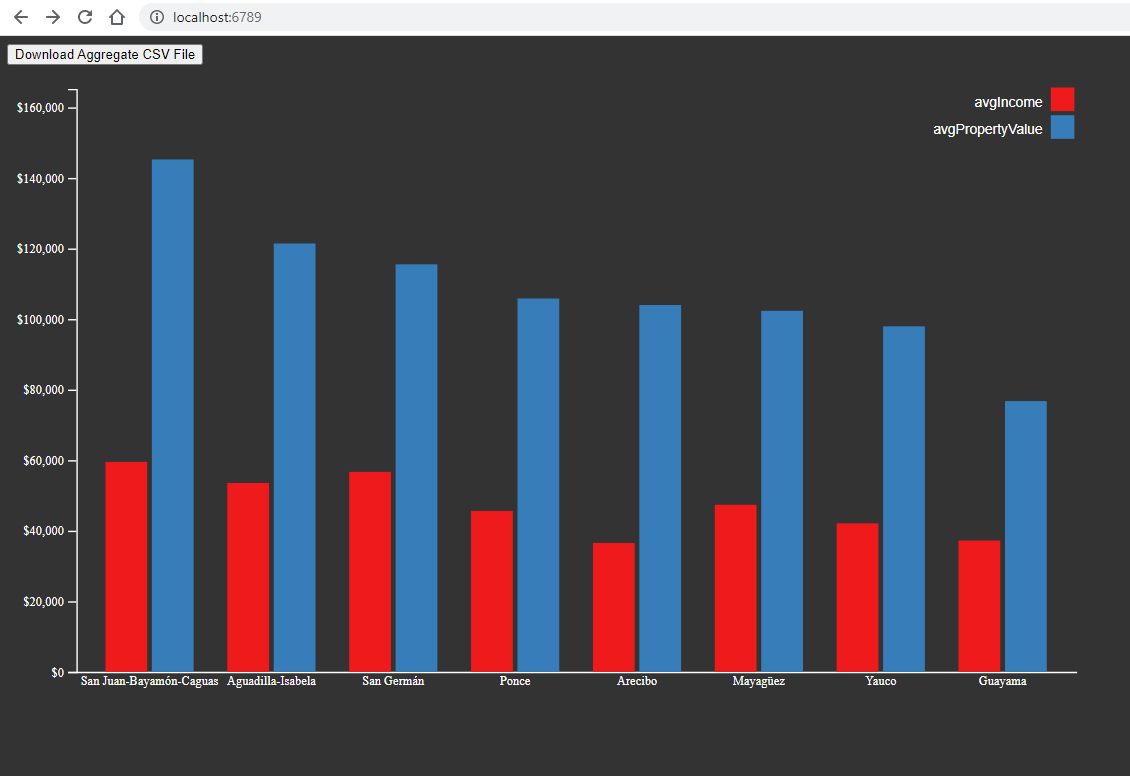
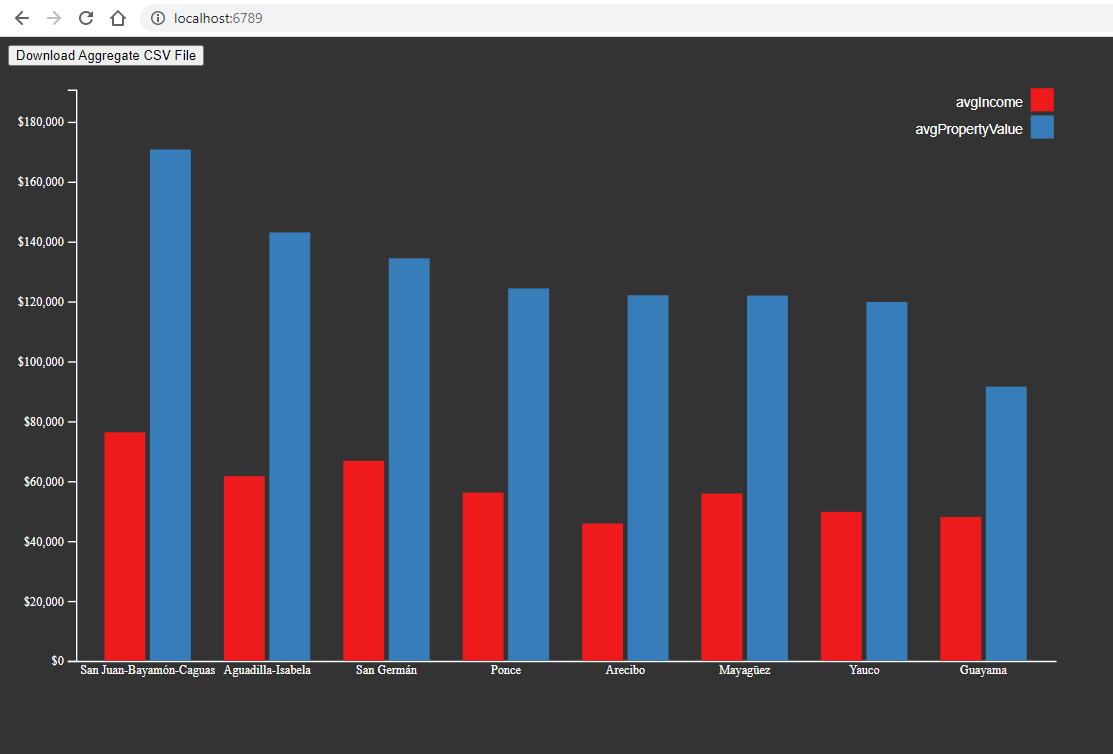
Fix average weighting per feedback from Tim

diff --git a/app.js b/app.js
@@ -141,8 +141,22 @@ function parseCfpbData () {
 
 // perform all the necessary calcs to produce the desired output for the assignment
 function crunchData () {
+  // list of columns/fields we're aggregating
+  const aggregateFieldMap = {
+    'avgLoanAmount': 'loan_amount',
+    'avgLtvRatio': 'loan_to_value_ratio',
+    'avgInterestRate': 'interest_rate',
+    'avgLoanCosts': 'total_loan_costs',
+    'avgLoanTermMonths': 'loan_term',
+    'avgPropertyValue': 'property_value',
+    'avgIncome': 'income'
+  }
+
+  let removeFromAvg = {}
+
   // reducer to create/massage the data to the expected output
   aggregateData = usefulJson.reduce((ret, row) => {
+    // if MSA ID key does not exist, create it
     if (!ret[row.msa_id]) {
       ret[row.msa_id] = {
         tracts: {},
@@ -156,6 +170,10 @@ function crunchData () {
         avgIncome: 0,
         loanCount: 0
       }
+
+      // populate the remove from average map, used to store counts to remove non-numbers from average weighting
+      removeFromAvg[row.msa_id] = {}
+      for (key in aggregateFieldMap) removeFromAvg[row.msa_id][key] = 0
     }
 
     // keep track of the number of loans per MSA ID
@@ -165,14 +183,18 @@ function crunchData () {
     ret[row.msa_id].raceCounts[row.derived_race] = ret[row.msa_id].raceCounts[row.derived_race] ? ret[row.msa_id].raceCounts[row.derived_race] + 1 : 1
 
     // keep a running sum for each field, which we will use to calc the average later
-    // convert any non-number to 0
-    ret[row.msa_id].avgLoanAmount += parseFloat(row.loan_amount) || 0
-    ret[row.msa_id].avgLtvRatio += parseFloat(row.loan_to_value_ratio) || 0
-    ret[row.msa_id].avgInterestRate += parseFloat(row.interest_rate) || 0
-    ret[row.msa_id].avgLoanCosts += parseFloat(row.total_loan_costs) || 0
-    ret[row.msa_id].avgLoanTermMonths += parseFloat(row.loan_term) || 0
-    ret[row.msa_id].avgPropertyValue += parseFloat(row.property_value) || 0
-    ret[row.msa_id].avgIncome += parseFloat(row.income) || 0
+    // keep a count of non-number values per column/field, used later to prevent being weighed in the average
+    _.forEach(aggregateFieldMap, (fieldName, aggName) => {
+      // convert value/cell to a number
+      let num = parseFloat(row[fieldName])
+      // if not a number, keep track of the count so we dont weight it against the average for that column/field
+      if (_.isNaN(num)) {
+        removeFromAvg[row.msa_id][aggName] += 1
+      } else {
+        // if it is a number, add it to running sum, to average later
+        ret[row.msa_id][aggName] += num
+      }
+    })
 
     // only need to take the average of a single tract_minority_population_percent per census_tract per MSA ID so it is weighted evenly
     // this will just keep over-writing the census_tract property, so when we calculate the average there is 1 value per censust tract
@@ -186,15 +208,14 @@ function crunchData () {
 
   // calculate the averages
   for (let key in aggregateData) {
-    aggregateData[key].avgLoanAmount = _.round(aggregateData[key].avgLoanAmount / aggregateData[key].loanCount, 2)
-    aggregateData[key].avgLtvRatio = _.round(aggregateData[key].avgLtvRatio / aggregateData[key].loanCount, 2)
-    aggregateData[key].avgInterestRate = _.round(aggregateData[key].avgInterestRate / aggregateData[key].loanCount, 2)
-    aggregateData[key].avgLoanCosts = _.round(aggregateData[key].avgLoanCosts / aggregateData[key].loanCount, 2)
-    aggregateData[key].avgLoanTermMonths = _.round(aggregateData[key].avgLoanTermMonths / aggregateData[key].loanCount, 2)
-    aggregateData[key].avgPropertyValue = _.round(aggregateData[key].avgPropertyValue / aggregateData[key].loanCount, 2)
     // convert to actual income (EG 32 actually represents 32,000, so * 1000)
-    aggregateData[key].avgIncome = _.round(aggregateData[key].avgIncome * 1000 / aggregateData[key].loanCount, 2)
-    
+    aggregateData[key].avgIncome = aggregateData[key].avgIncome * 1000
+
+    // calculate averages, removing weighting from each field dynamically (dont weight non-number entries in each column/field)
+    _.forEach(removeFromAvg[key], (removeCount, fieldName) => {
+      aggregateData[key][fieldName] = _.round(aggregateData[key][fieldName] / (aggregateData[key].loanCount - removeCount), 2)
+    })
+
     // store the sum of minority population values to average out
     let minorityPopulationSum = 0
     for (let tractKey in aggregateData[key].tracts) {
@@ -216,7 +237,7 @@ function crunchData () {
 // func to generate the final CSV output of the assignment
 function generateCsv () {
   // init var to hold CSV data, begin header row
-  const csvData = [['MSA Name', 'MSA ID','Number of Loans', 'Avg Loan Amount', 'Avg LTV Ratio', 'Avg Interest Rate', 'Avg Loan Cost', 'Avg Loan Terms (months)', 'Avg Property Value', 'Avg Income', 'Avg Minority Population (pecent)']]
+  const csvData = [['MSA Name', 'MSA ID','Number of Loans', 'Avg Loan Amount', 'Avg LTV Ratio', 'Avg Interest Rate', 'Avg Loan Cost', 'Avg Loan Terms (months)', 'Avg Property Value', 'Avg Income', 'Avg Minority Population (percent)']]
   // append each "derived_race" as a header column
   csvData[0].push(...raceList)
   
